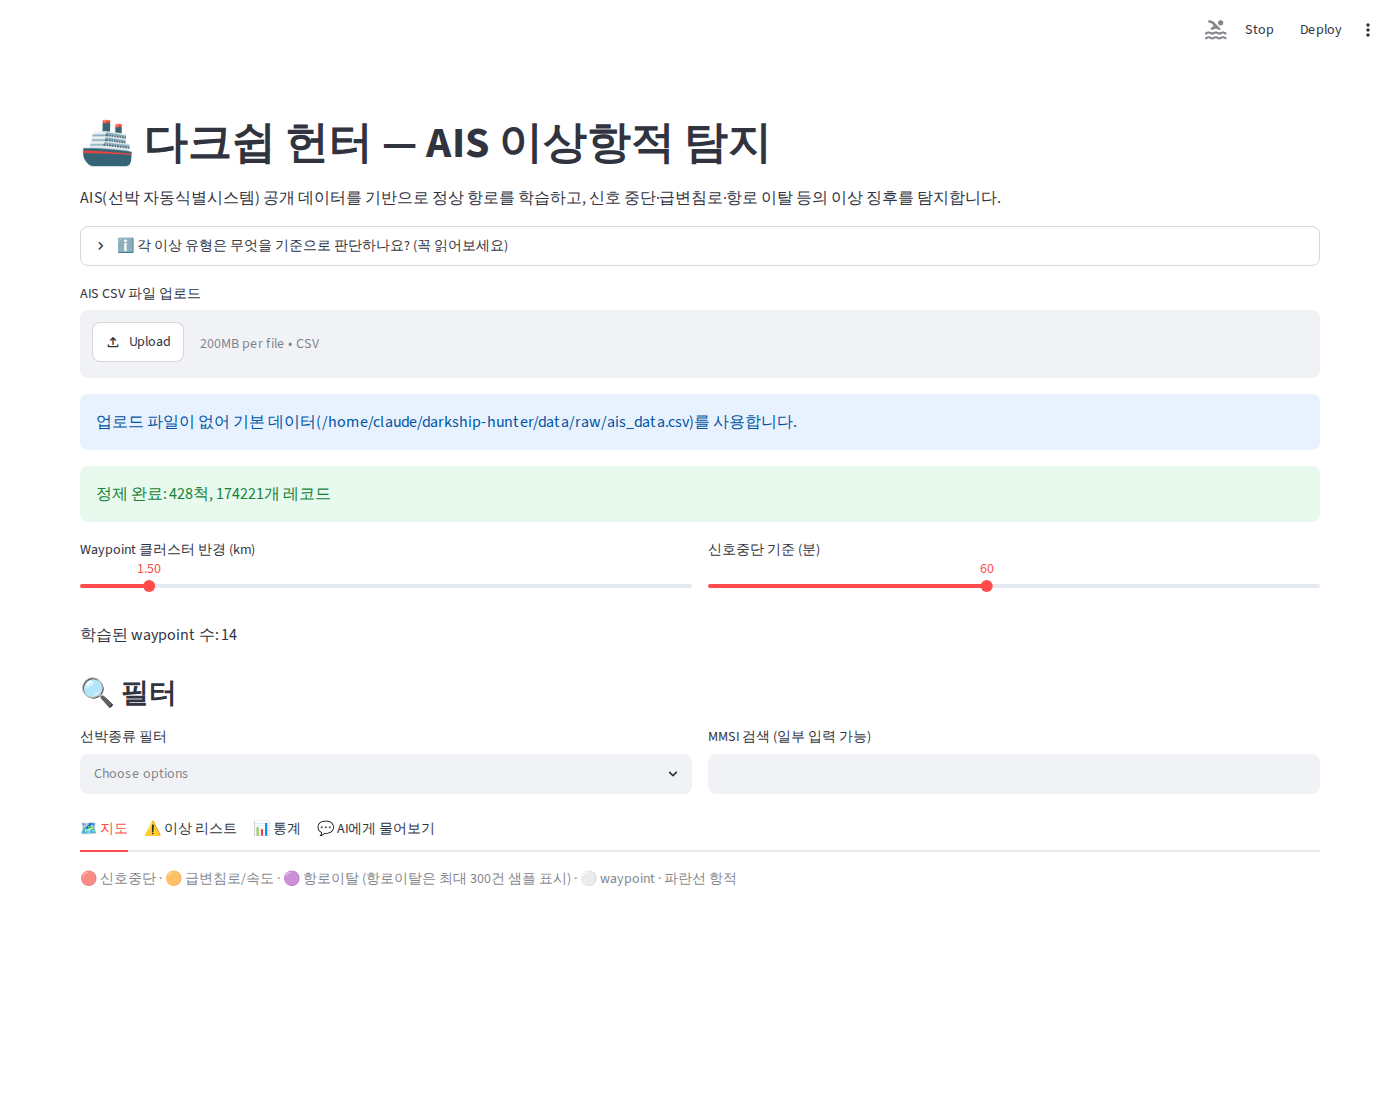
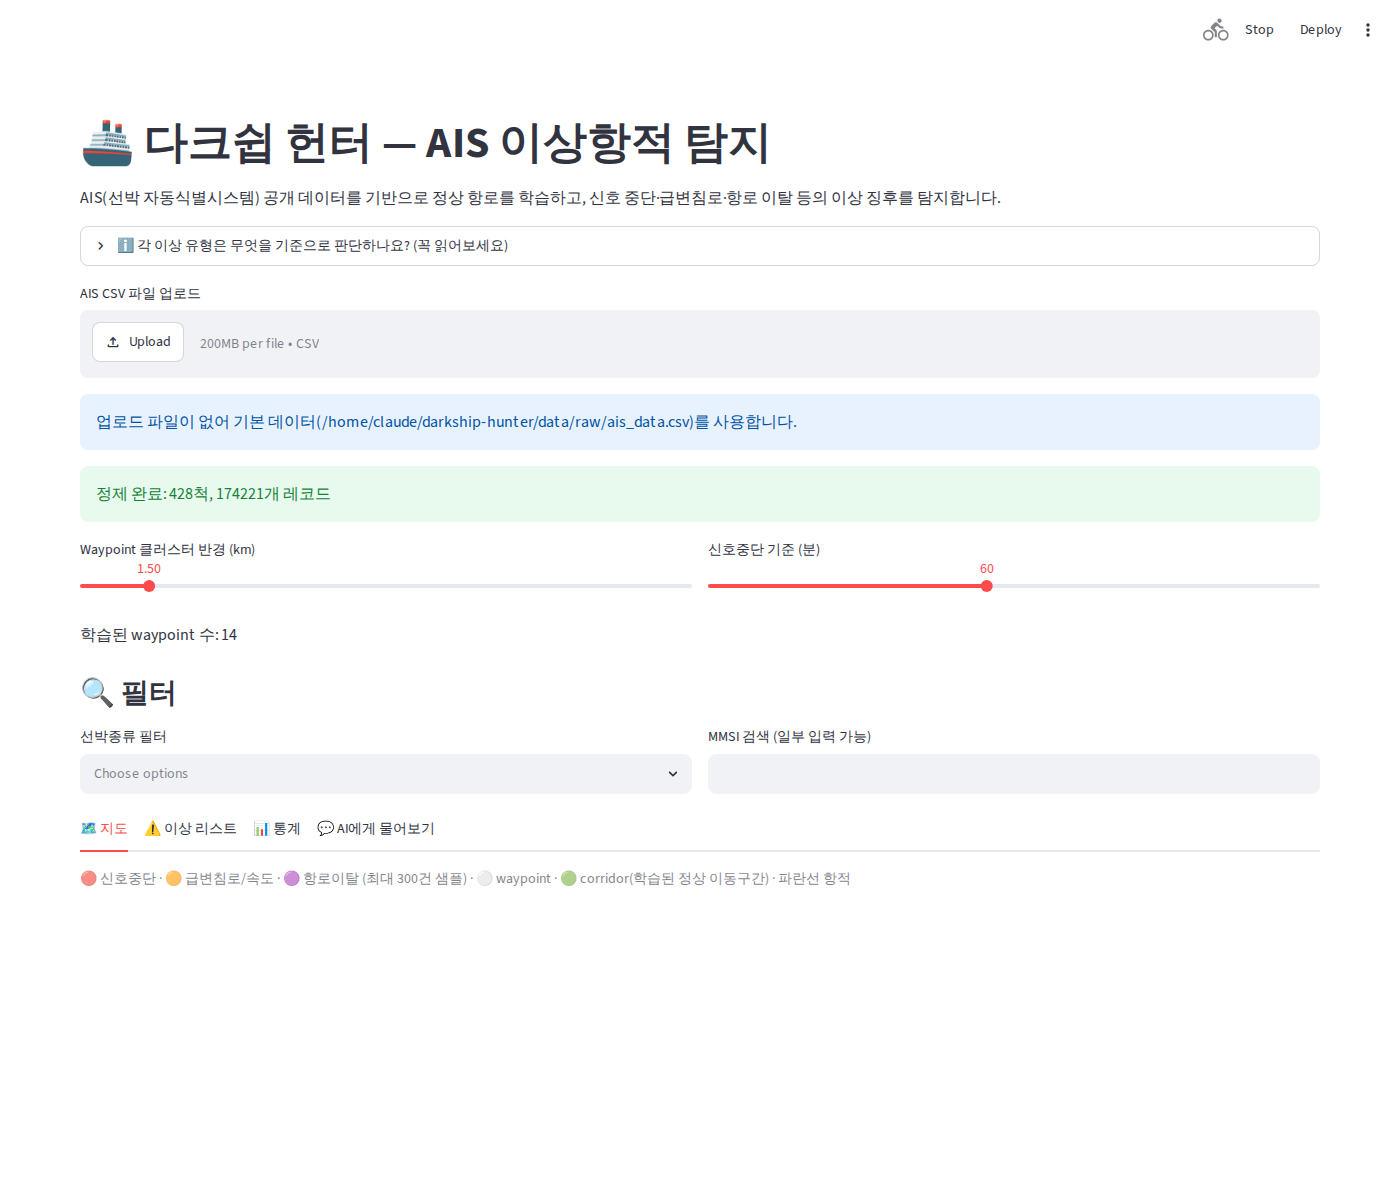
feat: corridor(waypoint 간 실제 이동구간) 기반 항로이탈 탐지 구현 - cross-track distance 활용, 오탐 22퍼센트 감소(11499->8956), 선박종류 z-score 그룹핑 문서 오류 정정, 테스트 2종 추가(총 22개)

diff --git a/src/detection/anomaly.py b/src/detection/anomaly.py
@@ -17,8 +17,14 @@ import pandas as pd
 import numpy as np
 from sklearn.ensemble import IsolationForest
 
-from .geo_utils import distance_km, bearing_deg, bearing_diff
-from .routes import nearest_waypoint_distance, build_waypoint_tree, query_nearest_waypoint_distances
+from .geo_utils import distance_km, bearing_deg, bearing_diff, cross_and_along_track_km
+from .routes import (
+    nearest_waypoint_distance,
+    build_waypoint_tree,
+    query_nearest_waypoint_distances,
+    query_nearest_waypoint_ids,
+    build_corridor_edges,
+)
 from .stats import group_zscore, percentile_rank
 
 
@@ -253,6 +259,62 @@ def detect_route_deviation(df: pd.DataFrame, waypoints: pd.DataFrame, threshold_
     tree = build_waypoint_tree(waypoints)
     distances = query_nearest_waypoint_distances(df, tree)
 
+    result = df.loc[distances > threshold_km, ["mmsi", "timestamp", "lat", "lon"]].copy()
+    result["distance_to_route_km"] = np.round(distances[distances > threshold_km], 2)
+    return result.reset_index(drop=True)
+
+
+def compute_corridor_distances(df: pd.DataFrame, waypoints: pd.DataFrame, corridor_edges: pd.DataFrame) -> np.ndarray:
+    """각 포인트에 대해 "정상 항로까지의 거리"를 계산한다.
+
+    detect_route_deviation()의 한계(waypoint가 점이라 두 지점 사이 정상 항해 구간도
+    이탈로 오탐)를 보완하기 위해, waypoint 사이의 실제 이동 구간(corridor_edges,
+    build_corridor_edges()로 학습)까지 함께 고려한다.
+
+    각 포인트에 대해 다음 중 최솟값을 "정상 항로까지의 거리"로 사용한다:
+    - 가장 가까운 waypoint까지의 거리 (기존 방식)
+    - 가장 가까운 corridor 구간까지의 수직거리 (cross-track distance), 단 포인트가
+      해당 구간의 시작~끝 사이에 투영될 때만 유효
+
+    이러면 "waypoint 사이를 정상적으로 이동 중인 포인트"는 corridor 구간에 딱 붙어있어
+    거리가 작게 나오고, 진짜로 알려진 항로에서 벗어난 포인트만 크게 나온다.
+    """
+    tree = build_waypoint_tree(waypoints)
+    min_distances = query_nearest_waypoint_distances(df, tree)
+
+    if corridor_edges.empty:
+        return min_distances
+
+    point_lat = df["lat"].to_numpy()
+    point_lon = df["lon"].to_numpy()
+
+    for _, edge in corridor_edges.iterrows():
+        edge_length_km = distance_km(edge["lat_a"], edge["lon_a"], edge["lat_b"], edge["lon_b"])
+        cross_km, along_km = cross_and_along_track_km(
+            point_lat, point_lon, edge["lat_a"], edge["lon_a"], edge["lat_b"], edge["lon_b"]
+        )
+        on_segment = (along_km >= -0.05) & (along_km <= edge_length_km + 0.05)  # 약간의 여유(50m) 허용
+        candidate = np.where(on_segment, np.abs(cross_km), np.inf)
+        min_distances = np.minimum(min_distances, candidate)
+
+    return min_distances
+
+
+def detect_route_deviation_corridor(
+    df: pd.DataFrame, waypoints: pd.DataFrame, corridor_edges: pd.DataFrame, threshold_km: float = 15.0
+) -> pd.DataFrame:
+    """corridor(waypoint 사이 실제 이동 구간)까지 고려한 항로이탈 탐지.
+
+    detect_route_deviation()과 인터페이스는 동일하지만, waypoint 점만 보는 대신
+    waypoint 사이의 학습된 이동 구간까지 함께 고려해 오탐을 줄인다.
+
+    Returns:
+        columns=[mmsi, timestamp, lat, lon, distance_to_route_km]
+    """
+    if waypoints.empty:
+        return pd.DataFrame(columns=["mmsi", "timestamp", "lat", "lon", "distance_to_route_km"])
+
+    distances = compute_corridor_distances(df, waypoints, corridor_edges)
     result = df.loc[distances > threshold_km, ["mmsi", "timestamp", "lat", "lon"]].copy()
     result["distance_to_route_km"] = np.round(distances[distances > threshold_km], 2)
     return result.reset_index(drop=True)

diff --git a/src/detection/routes.py b/src/detection/routes.py
@@ -94,3 +94,64 @@ def query_nearest_waypoint_distances(df: pd.DataFrame, waypoint_tree, earth_radi
     coords_rad = np.radians(df[["lat", "lon"]].to_numpy())
     dist_rad, _ = waypoint_tree.query(coords_rad, k=1)
     return dist_rad[:, 0] * earth_radius_km
+
+
+def query_nearest_waypoint_ids(df: pd.DataFrame, waypoint_tree, waypoints: pd.DataFrame) -> np.ndarray:
+    """df의 모든 포인트에 대해 최근접 waypoint의 waypoint_id를 벡터로 반환한다."""
+    coords_rad = np.radians(df[["lat", "lon"]].to_numpy())
+    _, idx = waypoint_tree.query(coords_rad, k=1)
+    wp_ids = waypoints["waypoint_id"].to_numpy()
+    return wp_ids[idx[:, 0]]
+
+
+def build_corridor_edges(df: pd.DataFrame, waypoints: pd.DataFrame, min_vessel_count: int = 2) -> pd.DataFrame:
+    """실제 선박들이 이동한 순서를 바탕으로, waypoint와 waypoint 사이의 "항로 구간(corridor)"을 학습한다.
+
+    단순히 waypoint(점)만 학습하면 "두 지점 사이를 어떻게 이었는지(경로/방향)"를 모른다는
+    한계가 있다 (트러블슈팅 로그 8번 참고). 이를 보완하기 위해:
+
+    1. 각 포인트를 최근접 waypoint에 할당한다.
+    2. 선박(mmsi)별로 시간순 waypoint 방문 순서를 만들고, 연속된 중복은 압축한다
+       (같은 waypoint 근처에서 머무는 동안 반복 할당되는 것을 방지).
+    3. 압축된 순서에서 연속된 두 waypoint 쌍을 "구간(edge)"으로 기록하고, 여러 선박에 걸쳐
+       등장 빈도를 센다.
+    4. min_vessel_count 이상 반복된 구간만 "정상 항로 구간"으로 채택한다 (한 번만 지나간
+       구간은 우연일 수 있으므로 제외).
+
+    Returns:
+        columns=[wp_a, wp_b, lat_a, lon_a, lat_b, lon_b, vessel_count]
+    """
+    if waypoints.empty:
+        return pd.DataFrame(columns=["wp_a", "wp_b", "lat_a", "lon_a", "lat_b", "lon_b", "vessel_count"])
+
+    tree = build_waypoint_tree(waypoints)
+    d = df.sort_values(["mmsi", "timestamp"]).copy()
+    d["nearest_wp"] = query_nearest_waypoint_ids(d, tree, waypoints)
+
+    edge_counts: dict[tuple[int, int], int] = {}
+    for _, group in d.groupby("mmsi"):
+        seq = group["nearest_wp"].to_numpy()
+        if len(seq) < 2:
+            continue
+        keep = np.insert(seq[1:] != seq[:-1], 0, True)  # 연속 중복 제거
+        compressed = seq[keep]
+        for a, b in zip(compressed[:-1], compressed[1:]):
+            key = tuple(sorted((int(a), int(b))))
+            edge_counts[key] = edge_counts.get(key, 0) + 1
+
+    wp_lookup = waypoints.set_index("waypoint_id")[["lat", "lon"]]
+    records = []
+    for (a, b), count in edge_counts.items():
+        if count >= min_vessel_count and a in wp_lookup.index and b in wp_lookup.index:
+            records.append(
+                {
+                    "wp_a": a,
+                    "wp_b": b,
+                    "lat_a": wp_lookup.loc[a, "lat"],
+                    "lon_a": wp_lookup.loc[a, "lon"],
+                    "lat_b": wp_lookup.loc[b, "lat"],
+                    "lon_b": wp_lookup.loc[b, "lon"],
+                    "vessel_count": count,
+                }
+            )
+    return pd.DataFrame(records)

diff --git a/tests/test_pipeline.py b/tests/test_pipeline.py
@@ -22,8 +22,10 @@ from src.detection.anomaly import (
     detect_kinematic_jumps,
     detect_kinematic_jumps_statistical,
     score_with_isolation_forest,
+    detect_route_deviation,
+    detect_route_deviation_corridor,
 )
-from src.detection.routes import extract_waypoints
+from src.detection.routes import extract_waypoints, build_corridor_edges
 
 FIXTURE_PATH = Path(__file__).parent / "fixtures" / "sample_ais.csv"
 
@@ -106,3 +108,60 @@ def test_score_with_isolation_forest_handles_empty_waypoints():
 
     scored = score_with_isolation_forest(df, empty_waypoints, contamination=0.2)
     assert (scored["route_deviation_km"] == 0.0).all()
+
+
+def _build_corridor_test_data():
+    """waypoint A(37.0,-122.0)와 B(37.5,-122.0) 사이를 여러 척이 왕복하는 합성 데이터.
+    corridor 학습이 이 A-B 구간을 정상 경로로 인식하는지 검증하기 위한 픽스처."""
+    import numpy as np
+
+    rows = []
+    base_time = pd.Timestamp("2026-01-01")
+    # A, B 각각에 밀집 클러스터를 만들어 waypoint로 잡히게 하고, 그 사이를 잇는 직선상 포인트도 추가
+    for mmsi in ["900000001", "900000002", "900000003"]:
+        t = base_time
+        # A 근처 밀집 (waypoint 형성용)
+        for i in range(5):
+            rows.append({"mmsi": mmsi, "timestamp": t, "lat": 37.0 + i * 0.001, "lon": -122.0, "sog": 10.0, "cog": 0.0})
+            t += pd.Timedelta(minutes=5)
+        # A -> B 직선 이동 (corridor 구간)
+        for frac in np.linspace(0, 1, 8)[1:-1]:
+            rows.append(
+                {"mmsi": mmsi, "timestamp": t, "lat": 37.0 + frac * 0.5, "lon": -122.0, "sog": 12.0, "cog": 0.0}
+            )
+            t += pd.Timedelta(minutes=5)
+        # B 근처 밀집 (waypoint 형성용)
+        for i in range(5):
+            rows.append({"mmsi": mmsi, "timestamp": t, "lat": 37.5 + i * 0.001, "lon": -122.0, "sog": 10.0, "cog": 0.0})
+            t += pd.Timedelta(minutes=5)
+
+    df = pd.DataFrame(rows)
+    for col in ["heading", "nav_status", "ship_type"]:
+        df[col] = pd.NA
+    return df
+
+
+def test_build_corridor_edges_learns_ab_segment():
+    df = _build_corridor_test_data()
+    waypoints = extract_waypoints(df, eps_km=1.0, min_samples=10)
+    assert len(waypoints) == 2  # A, B 두 waypoint가 학습되어야 함
+
+    corridors = build_corridor_edges(df, waypoints, min_vessel_count=2)
+    assert len(corridors) == 1  # A-B 구간 하나만 학습되어야 함 (3척 모두 이 구간 이용)
+    assert corridors.iloc[0]["vessel_count"] == 3
+
+
+def test_corridor_based_deviation_reduces_false_positives_on_known_route():
+    """A-B 사이를 정상 이동 중인 포인트가, 점 기반 방식에서는 이탈로 오탐되지만
+    corridor 기반 방식에서는 정상 경로로 인식되어 이탈 건수가 줄어드는지 검증."""
+    df = _build_corridor_test_data()
+    waypoints = extract_waypoints(df, eps_km=1.0, min_samples=10)
+    corridors = build_corridor_edges(df, waypoints, min_vessel_count=2)
+
+    point_based = detect_route_deviation(df, waypoints, threshold_km=10.0)
+    corridor_based = detect_route_deviation_corridor(df, waypoints, corridors, threshold_km=10.0)
+
+    # A-B 중간 지점들은 waypoint(A 또는 B)에서 10km 넘게 떨어져 있어 점 기반으로는 이탈 처리됨
+    assert len(point_based) > 0
+    # 그러나 corridor 기반에서는 A-B 구간 위에 있으므로 이탈 건수가 확연히 줄어야 함
+    assert len(corridor_based) < len(point_based)

diff --git a/src/detection/geo_utils.py b/src/detection/geo_utils.py
@@ -4,6 +4,8 @@ from __future__ import annotations
 import numpy as np
 from haversine import haversine, Unit
 
+EARTH_RADIUS_KM = 6371.0
+
 
 def distance_km(lat1: float, lon1: float, lat2: float, lon2: float) -> float:
     """두 좌표 간 대권거리(km)를 반환한다 (지구 곡률 고려)."""
@@ -24,3 +26,55 @@ def bearing_diff(b1: float, b2: float) -> float:
     """두 방위각 간의 최소 차이(0~180도)를 반환한다."""
     diff = abs(b1 - b2) % 360
     return min(diff, 360 - diff)
+
+
+def _vectorized_distance_km(lat1, lon1, lat2, lon2):
+    """numpy 배열 입력을 받는 벡터화된 haversine 거리(km) 계산."""
+    R = EARTH_RADIUS_KM
+    lat1_r, lat2_r = np.radians(lat1), np.radians(lat2)
+    dlat = np.radians(np.asarray(lat2) - np.asarray(lat1))
+    dlon = np.radians(np.asarray(lon2) - np.asarray(lon1))
+    a = np.sin(dlat / 2) ** 2 + np.cos(lat1_r) * np.cos(lat2_r) * np.sin(dlon / 2) ** 2
+    return 2 * R * np.arcsin(np.sqrt(np.clip(a, 0, 1)))
+
+
+def _vectorized_bearing_deg(lat1, lon1, lat2, lon2):
+    """numpy 배열 입력을 받는 벡터화된 초기 방위각(도) 계산."""
+    lat1_r, lat2_r = np.radians(lat1), np.radians(lat2)
+    dlon_r = np.radians(np.asarray(lon2) - np.asarray(lon1))
+    x = np.sin(dlon_r) * np.cos(lat2_r)
+    y = np.cos(lat1_r) * np.sin(lat2_r) - np.sin(lat1_r) * np.cos(lat2_r) * np.cos(dlon_r)
+    bearing = np.degrees(np.arctan2(x, y))
+    return (bearing + 360) % 360
+
+
+def cross_and_along_track_km(
+    point_lat: np.ndarray, point_lon: np.ndarray, start_lat: float, start_lon: float, end_lat: float, end_lon: float
+):
+    """점(point_lat, point_lon) 배열이 대권 경로(start→end) 선분에서 얼마나 벗어났는지를
+    구면 항법의 표준 공식(cross-track / along-track distance)으로 계산한다. 완전히
+    벡터화되어 있어 17만 포인트 규모에서도 빠르게 처리된다.
+
+    - cross_track_km: 경로 선(직선이 아니라 대권 경로)에서 수직으로 벗어난 거리(km, 부호 있음)
+    - along_track_km: start 지점에서부터 점의 투영 위치까지 경로를 따라간 거리(km)
+      (along_track이 0~두 지점 사이 거리 범위 안에 있어야 "선분 위에 투영된다"고 볼 수 있음)
+
+    선박 항로처럼 "직선이 아니라 두 지점을 잇는 대권 경로"에서의 이탈 정도를 재는 데 쓴다.
+    출처: 항법에서 널리 쓰이는 cross-track distance / along-track distance 공식
+    (Ed Williams, Aviation Formulary).
+    """
+    R = EARTH_RADIUS_KM
+    point_lat = np.asarray(point_lat, dtype=float)
+    point_lon = np.asarray(point_lon, dtype=float)
+
+    d13 = _vectorized_distance_km(start_lat, start_lon, point_lat, point_lon) / R
+    brng13 = np.radians(_vectorized_bearing_deg(start_lat, start_lon, point_lat, point_lon))
+    brng12 = np.radians(bearing_deg(start_lat, start_lon, end_lat, end_lon))
+
+    cross_track_rad = np.arcsin(np.clip(np.sin(d13) * np.sin(brng13 - brng12), -1.0, 1.0))
+    cross_track_km = cross_track_rad * R
+
+    cos_along = np.clip(np.cos(d13) / np.cos(cross_track_rad), -1.0, 1.0)
+    along_track_km = np.arccos(cos_along) * R
+
+    return cross_track_km, along_track_km

diff --git a/docs/TROUBLESHOOTING.md b/docs/TROUBLESHOOTING.md
@@ -140,9 +140,11 @@ GPS가 침로를 잘못 계산해서 튀는 것.
 적은 선박종류(30척 미만)는 전체 데이터 기준으로 자동 대체(fallback).
 
 **결과**: 화물선/유조선은 여전히 거의 탐지되지 않고(정상 유지), 결과에 z-score와 백분위수가
-함께 표시되어 "왜 이상으로 판단했는지"에 구체적 통계 근거가 남음. 다만 VesselType 하위코드를
-큰 범주(예: 60~69 전부 "여객선")로 묶다 보니 성격이 다른 선박이 한 그룹으로 묶여 그룹 내
-분산이 커지는 부작용도 확인됨 — 그룹 세분화는 추후 개선 여지로 남겨둠.
+함께 표시되어 "왜 이상으로 판단했는지"에 구체적 통계 근거가 남음. **추가 검증(2026-07-07)**: 이후
+실제 그룹핑 로직을 다시 확인해보니, `d["mmsi"].map(ship_type_map)`이 표시용 이름("여객선")이 아닌
+**VesselType 세부코드(60/61/65/69 등)를 그대로 사용**하고 있었음 — 애초에 우려했던 "대분류로
+뭉쳐서 부정확"한 문제는 없었음. 다만 세부코드별 표본이 매우 적은 경우(1~3척)가 많아 결국 전체
+데이터 기준으로 자동 대체(fallback)되는 경우가 잦다는 점은 남아있는 한계.
 
 ---
 
@@ -170,6 +172,34 @@ GPS가 침로를 잘못 계산해서 튀는 것.
 "과학적으로 완벽하다"고 포장하는 것보다 훨씬 신뢰를 준다. 이렇게 한계를 명확히 남겨두면
 나중에 실제로 개선할 지점(percentile 기반 임계값, 궤적 유사도 클러스터링 등)도 분명해진다.
 
+---
+
+## 9. waypoint 방향성 부재 문제를 실제로 개선 — corridor(이동구간) 학습 구현
+
+**배경**: 8번 항목에서 지적된 "waypoint는 점이라 방향을 모른다"는 문제를 실제로 개선해보기로 함.
+
+**구현**:
+1. 각 AIS 포인트를 최근접 waypoint에 할당 (BallTree 재사용)
+2. 선박(mmsi)별로 시간순 waypoint 방문 순서를 만들고, 연속 중복을 압축
+3. 압축된 순서에서 연속된 waypoint 쌍을 "구간(edge)"으로 기록, 여러 선박에 걸친 등장 빈도를 집계
+4. 최소 2척 이상이 실제로 지나간 구간만 "정상 corridor"로 채택 (`build_corridor_edges`)
+5. 이후 각 포인트의 "정상 항로까지 거리"를 계산할 때, waypoint까지 거리뿐 아니라 corridor
+   구간까지의 수직거리(cross-track distance, 항법에서 쓰는 대권경로 이탈거리 공식)도 함께 고려
+   (`compute_corridor_distances`, `detect_route_deviation_corridor`)
+
+**검증**: SF Bay 데이터에서 13개 corridor 구간이 학습됨 (최대 229척이 이용한 구간 포함).
+항로이탈 건수가 11,499건 → 8,956건으로 **22% 감소**. 픽스처 데이터로 "A-B 구간을 정상
+이동 중인 포인트가 점 기반으로는 오탐되지만 corridor 기반에서는 정상으로 인식되는지"도
+단위테스트로 검증함 (`test_corridor_based_deviation_reduces_false_positives_on_known_route`).
+
+**한계**: 완전히 해결된 건 아님. 특정 화물선 사례(MMSI 210185000)를 대조군으로 확인해보니,
+corridor 개선 후에도 여전히 이탈로 잡혔음 — 이 배가 학습된 13개 corridor 범위 밖(먼바다 쪽)을
+항해했기 때문으로 추정됨. "학습 범위 안에서는 개선, 범위 밖은 여전히 한계"라는 걸 솔직하게
+확인하고 문서화함.
+
+**교훈**: 개선책을 구현했다고 끝난 게 아니라, 실제로 나아졌는지(수치로), 그리고 여전히
+안 되는 케이스는 뭔지(구체적 사례로) 둘 다 확인해야 진짜 검증이 된다.
+
 
 
 | 문제 | 핵심 교훈 |
@@ -182,3 +212,4 @@ GPS가 침로를 잘못 계산해서 튀는 것.
 | 대시보드 무한 재계산 | 인터랙티브 컴포넌트(지도 등)는 재실행을 유발하므로, 무거운 계산은 반드시 캐싱해야 함 |
 | 고정 임계값의 근거 부족 | "일괄 기준"보다 "같은 집단 내 상대적 이상치(z-score)"가 더 방어 가능한 판단 근거가 됨 |
 | 하이퍼파라미터의 근거 유무 구분 | "방향성은 근거 있음"과 "정확한 숫자는 실용적 선택"을 구분해서 정직하게 명시하는 게 신뢰를 만듦 |
+| corridor 개선 | 개선책을 구현했다고 끝이 아니라, 수치로 증명하고 안 되는 케이스도 구체적으로 확인해야 진짜 검증이 됨 |